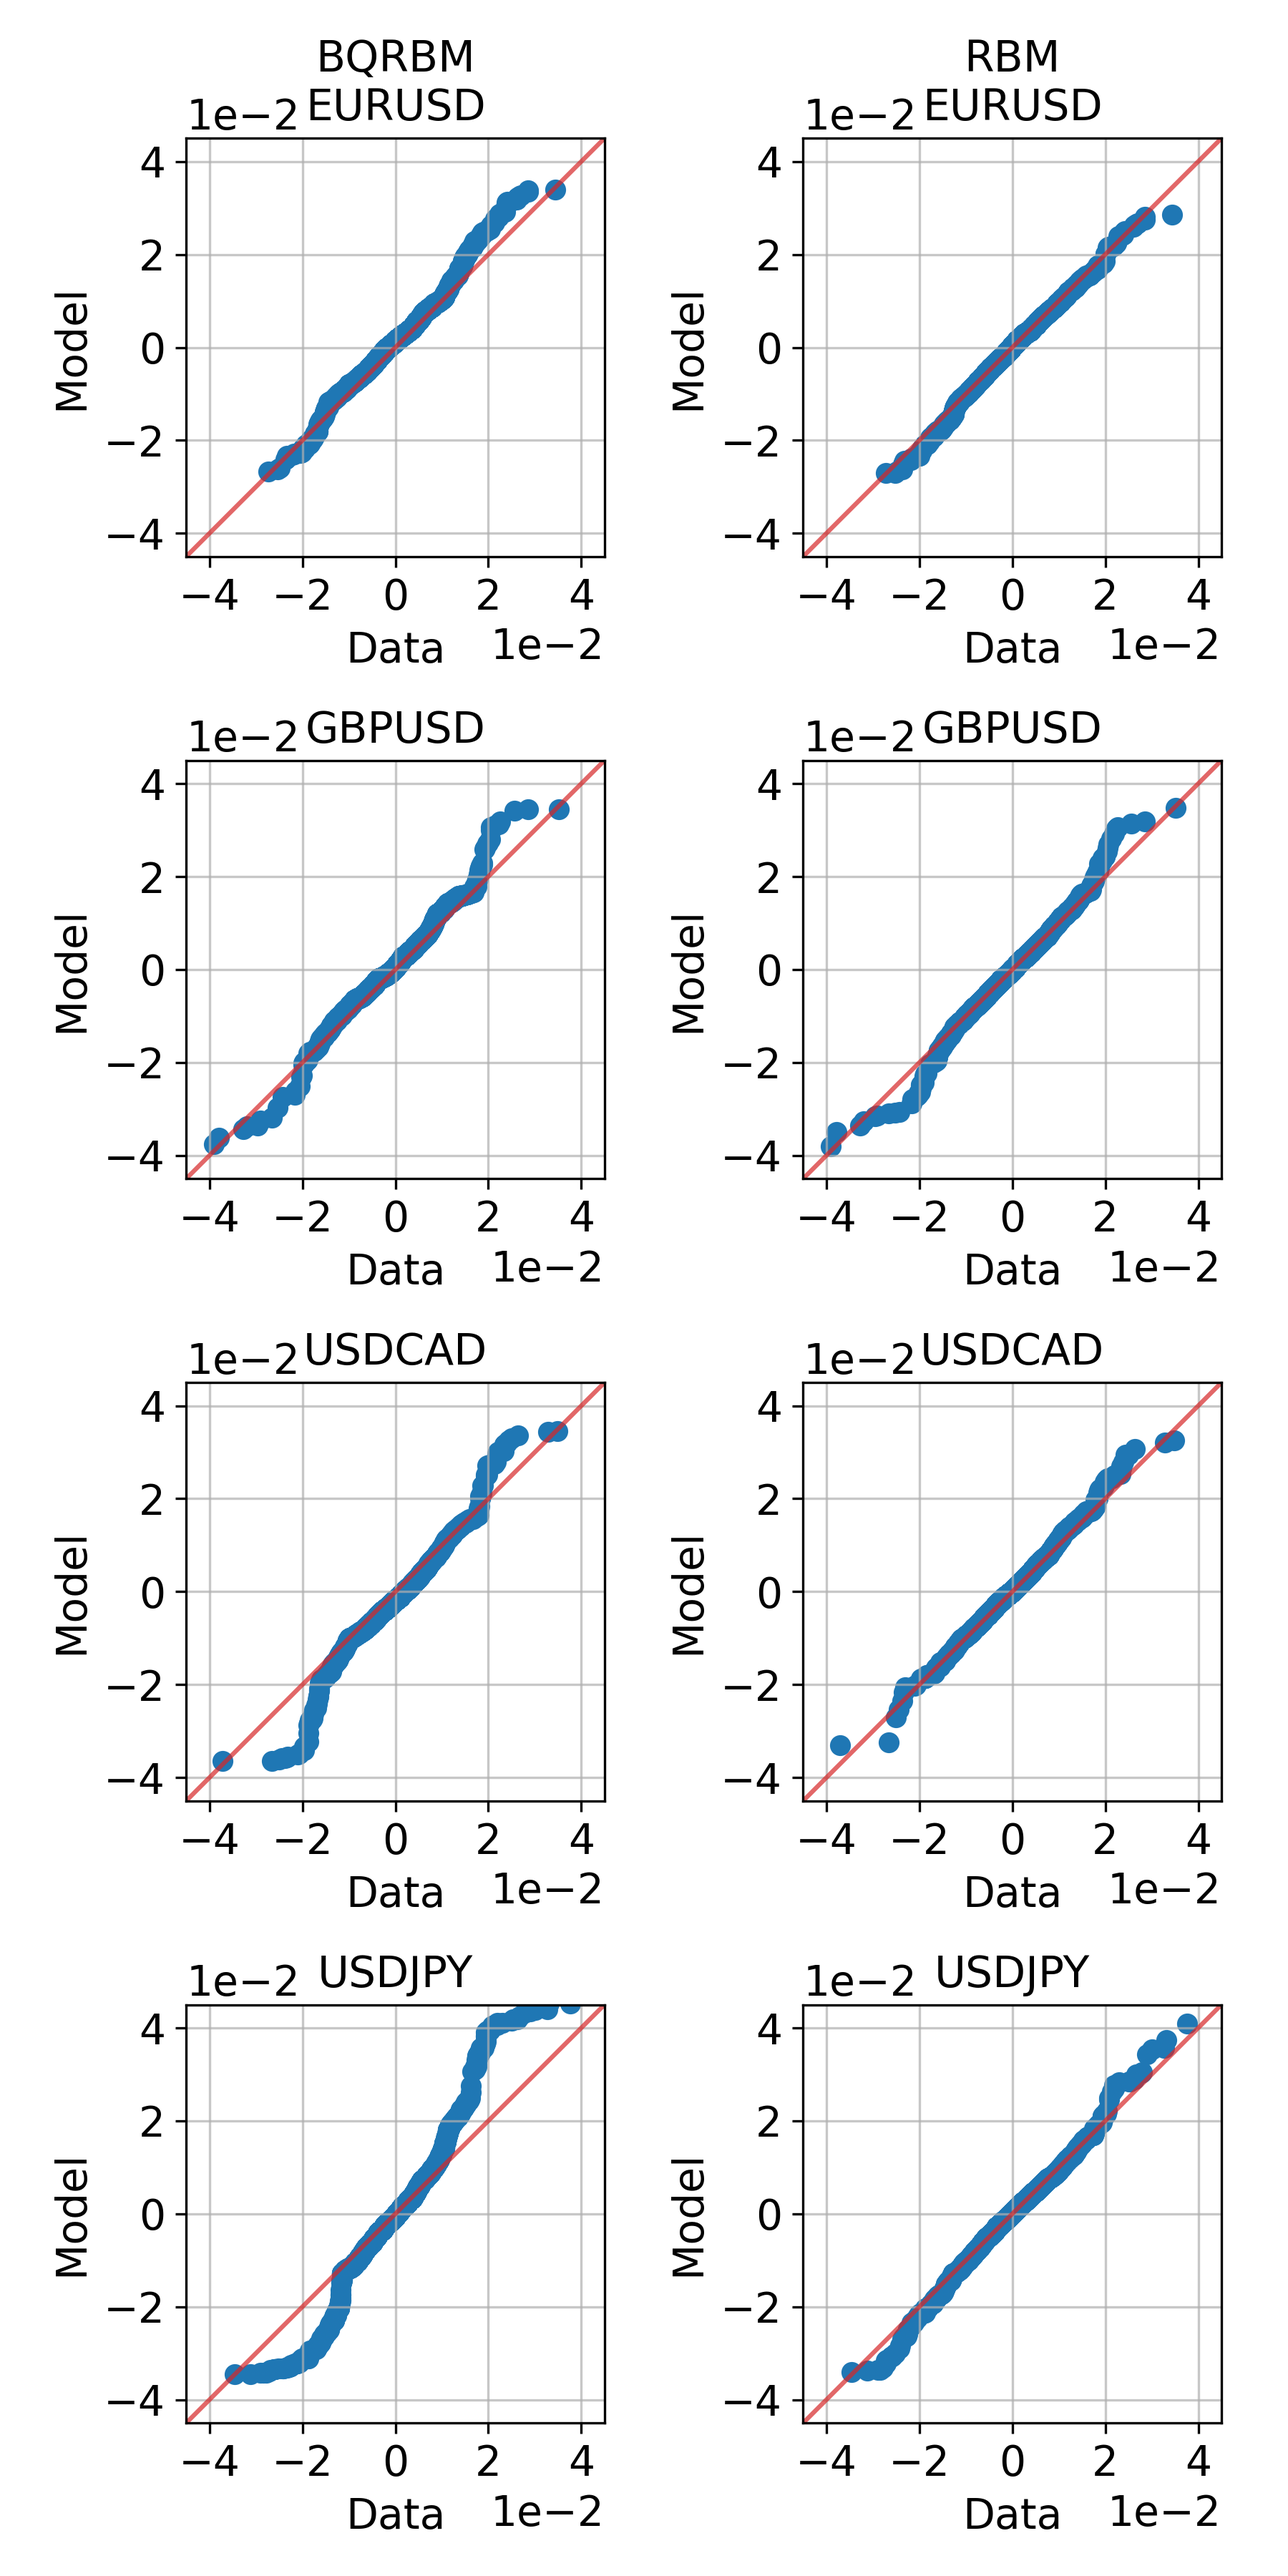
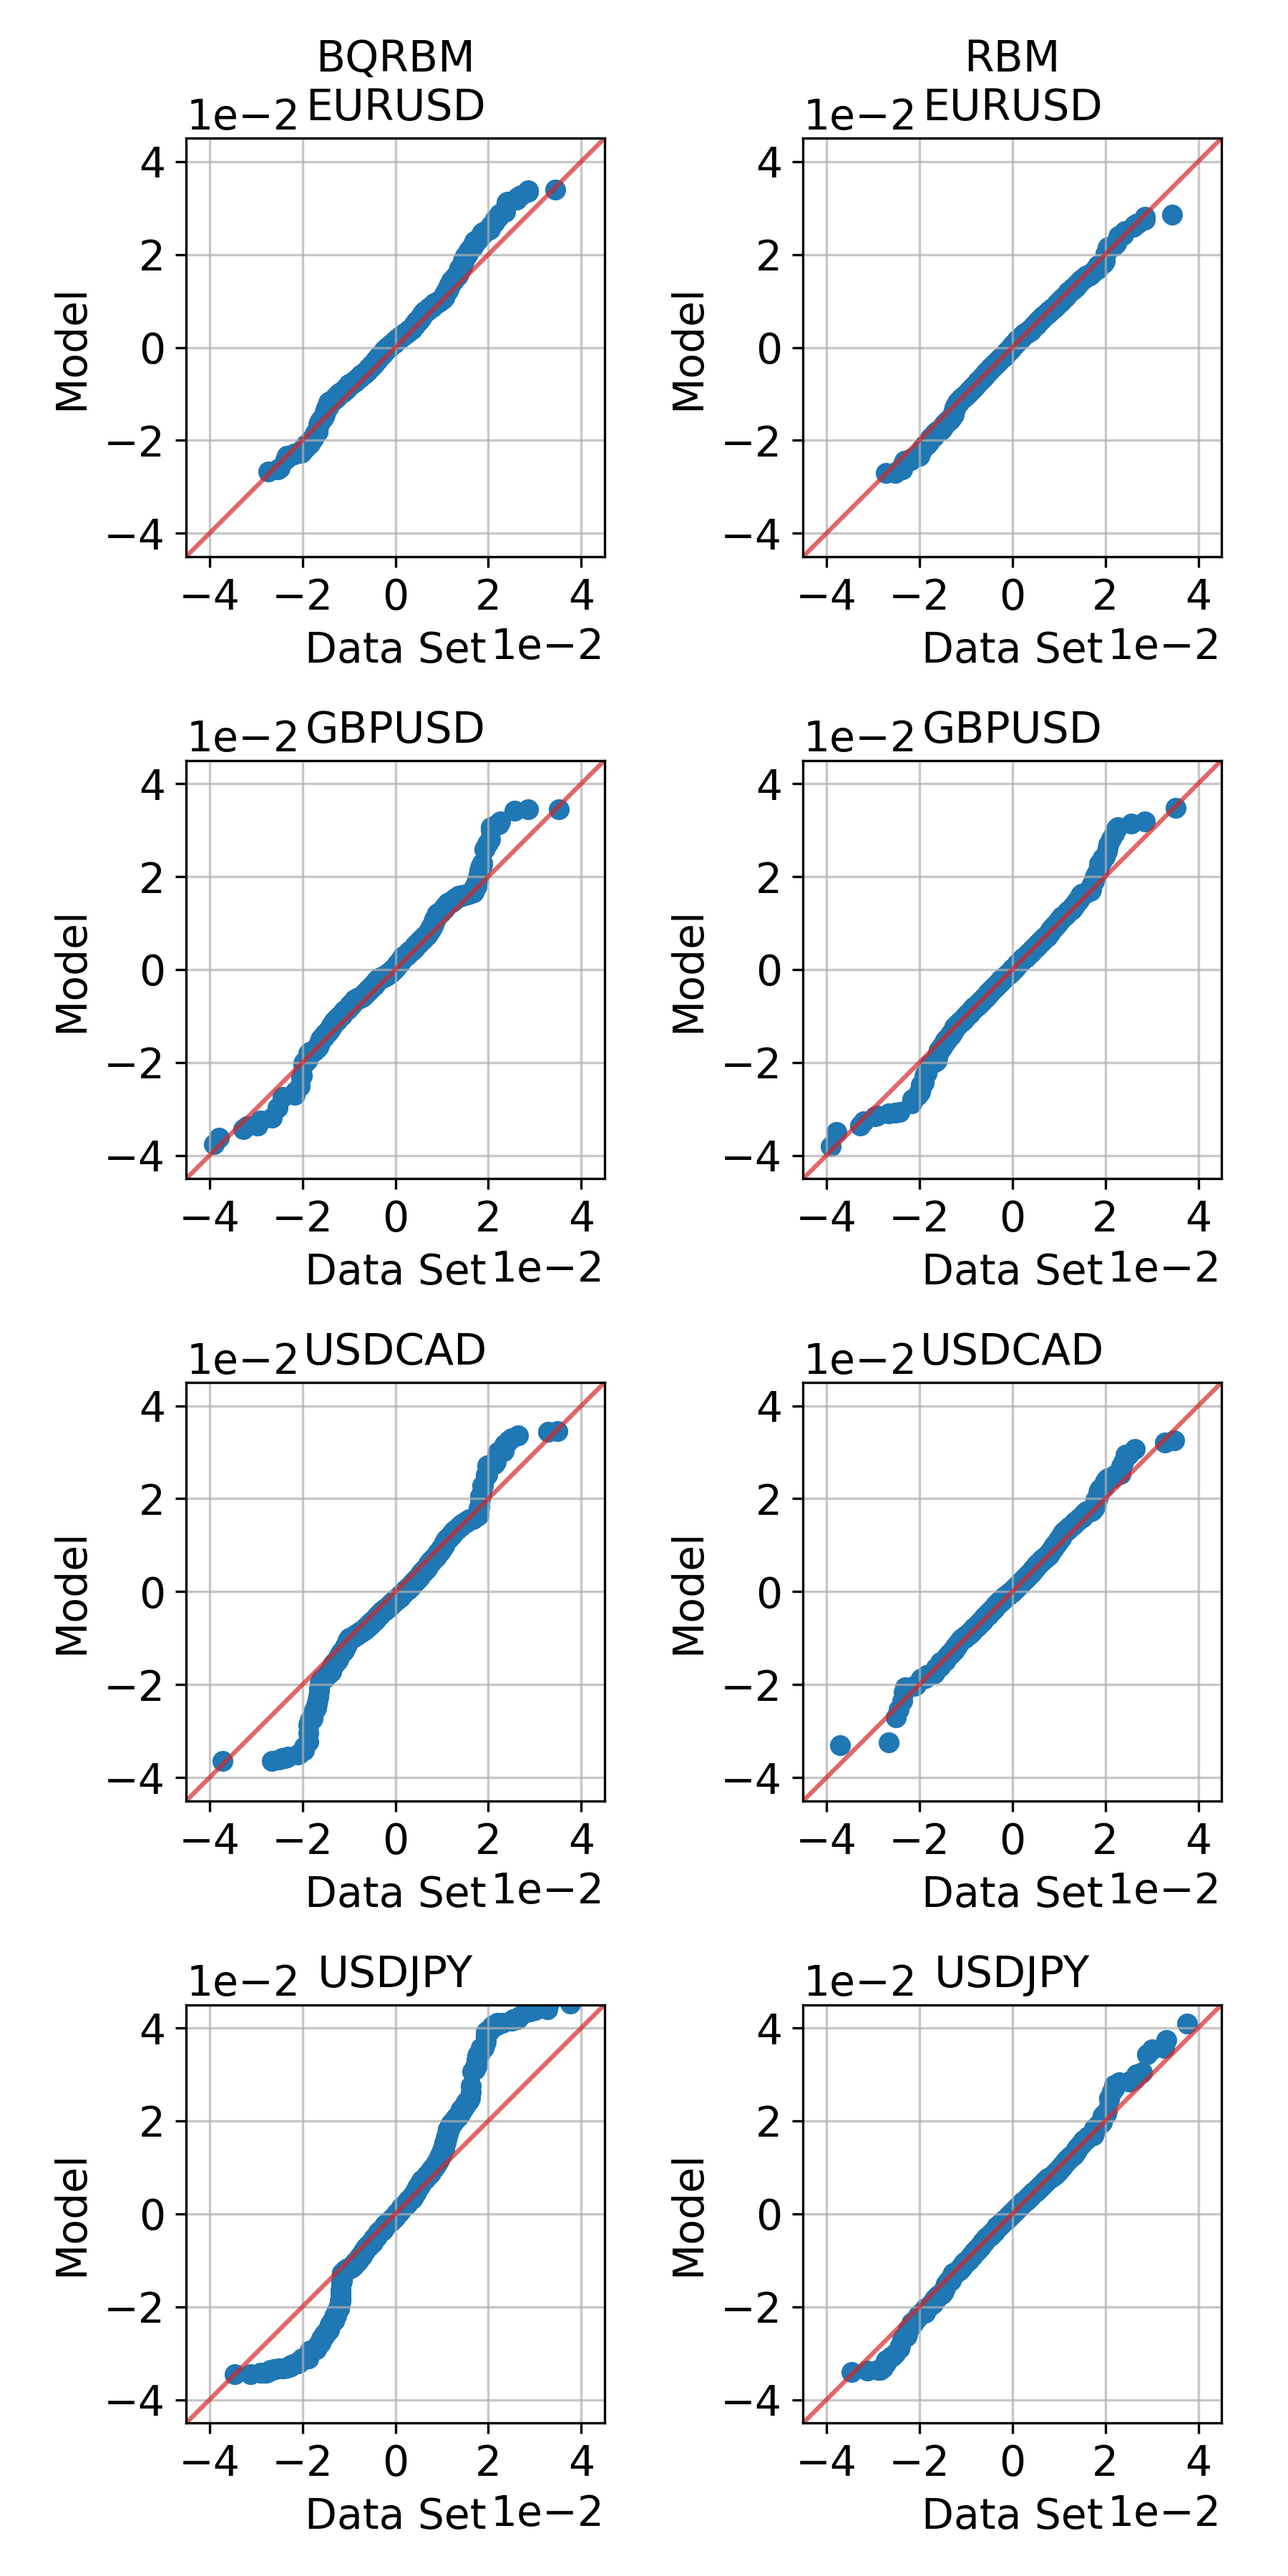
Updated plots and tables to use data set vs. data

diff --git a/scripts/rbm/prepare_results.py b/scripts/rbm/prepare_results.py
@@ -202,7 +202,7 @@ matplotlib.rcParams.update({"font.size": 14})
 Plotting
 """
 colors = {
-    "Data": "tab:cyan",
+    "Data Set": "tab:cyan",
     "RBM (B)": "tab:blue",
     "RBM (X)": "tab:orange",
     "RBM (V)": "tab:red",
@@ -226,7 +226,7 @@ combinations = list(itertools.combinations(log_returns.columns, 2))
 tail_concentration_dfs = {}
 for model_name, model_info in models.items():
     if model_name == "baseline":
-        tail_concentration_dfs["Data"] = pd.read_csv(
+        tail_concentration_dfs["Data Set"] = pd.read_csv(
             project_dir / f"artifacts/{model_id}/log_returns.csv",
             index_col="date",
             parse_dates=["date"],
@@ -290,7 +290,7 @@ table = [
     r"\begin{tabular}{l r r r r r r}"
     r"\multicolumn{7}{c}{\textbf{Correlation Coefficients}} \\",
     r"\toprule",
-    r"& \multicolumn{3}{c}{\textbf{Data}} & \multicolumn{3}{c}{\textbf{RBM (%s)}} \\"
+    r"& \multicolumn{3}{c}{\textbf{Data Set}} & \multicolumn{3}{c}{\textbf{RBM (%s)}} \\"
     % prefixes,
     r"\cmidrule(lr){2-4}",
     r"\cmidrule(lr){5-7}",
@@ -381,7 +381,7 @@ table = [
     r"\begin{tabular}{l r r r r r}",
     r"\multicolumn{6}{c}{\textbf{Historical Volatilities}} \\",
     r"\toprule",
-    r"Currency Pair & \textbf{Data} & \textbf{RBM (%s)} & \textbf{RBM (%s)} & \textbf{RBM (%s)} & \textbf{RBM (%s)} \\"
+    r"Currency Pair & \textbf{Data Set} & \textbf{RBM (%s)} & \textbf{RBM (%s)} & \textbf{RBM (%s)} & \textbf{RBM (%s)} \\"
     % prefixes,
     r"\midrule",
 ]
@@ -423,7 +423,7 @@ table = [
     r"& \multicolumn{3}{c}{\textbf{Low Regime}} & \multicolumn{3}{c}{\textbf{High Regime}} \\",
     r"\cmidrule(lr){2-4}",
     r"\cmidrule(lr){5-7}",
-    r"Currency Pair & \textbf{Data} & \textbf{RBM (%s)} & \textbf{RBM (%s)} & \textbf{Data} & \textbf{RBM (%s)} & \textbf{RBM (%s)} \\"
+    r"Currency Pair & \textbf{Data Set} & \textbf{RBM (%s)} & \textbf{RBM (%s)} & \textbf{Data Set} & \textbf{RBM (%s)} & \textbf{RBM (%s)} \\"
     % (prefixes + prefixes),
     r"\midrule",
 ]
@@ -463,7 +463,7 @@ table = [
     r"\begin{tabular}{l r r r r r}",
     r"\multicolumn{6}{c}{\textbf{Lower Tails (1st Percentile)}} \\",
     r"\toprule",
-    r"Currency Pair & \textbf{Data} & \textbf{RBM (%s)} & \textbf{RBM (%s)} & \textbf{RBM (%s)} & \textbf{RBM (%s)} \\"
+    r"Currency Pair & \textbf{Data Set} & \textbf{RBM (%s)} & \textbf{RBM (%s)} & \textbf{RBM (%s)} & \textbf{RBM (%s)} \\"
     % prefixes,
     r"\midrule",
 ]
@@ -486,7 +486,7 @@ table += [
     r"\bottomrule \\",
     r"\multicolumn{6}{c}{\textbf{Upper Tails (99th Percentile)}} \\",
     r"\toprule",
-    r"Currency Pair & \textbf{Data} & \textbf{RBM (%s)} & \textbf{RBM (%s)} & \textbf{RBM (%s)} & \textbf{RBM (%s)} \\"
+    r"Currency Pair & \textbf{Data Set} & \textbf{RBM (%s)} & \textbf{RBM (%s)} & \textbf{RBM (%s)} & \textbf{RBM (%s)} \\"
     % prefixes,
     r"\midrule",
 ]

diff --git a/src/qbm/plotting/metrics.py b/src/qbm/plotting/metrics.py
@@ -147,7 +147,7 @@ def plot_qq(ax, data, sample, title, params, **kwargs):
     ax.set_yticks(params["yticks"])
     ax.set_xlim(params["xlims"])
     ax.set_ylim(params["ylims"])
-    ax.set_xlabel("Data")
+    ax.set_xlabel("Data Set")
     ax.set_ylabel("Model")
     ax.grid(alpha=0.7)
 
